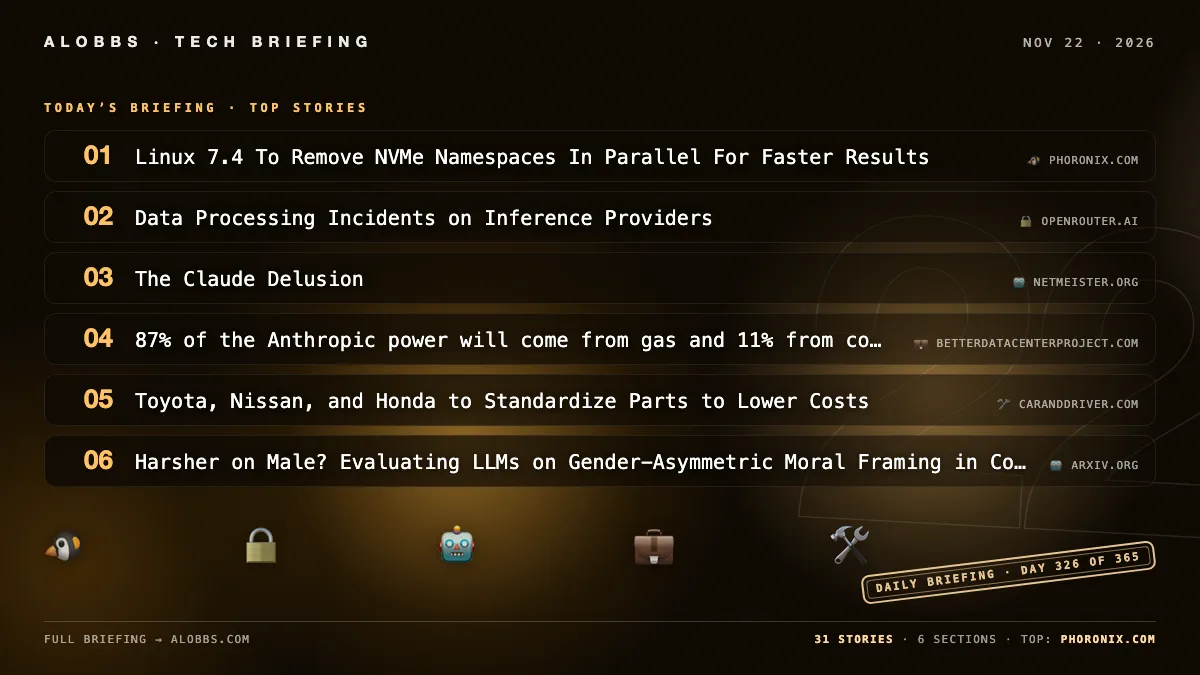
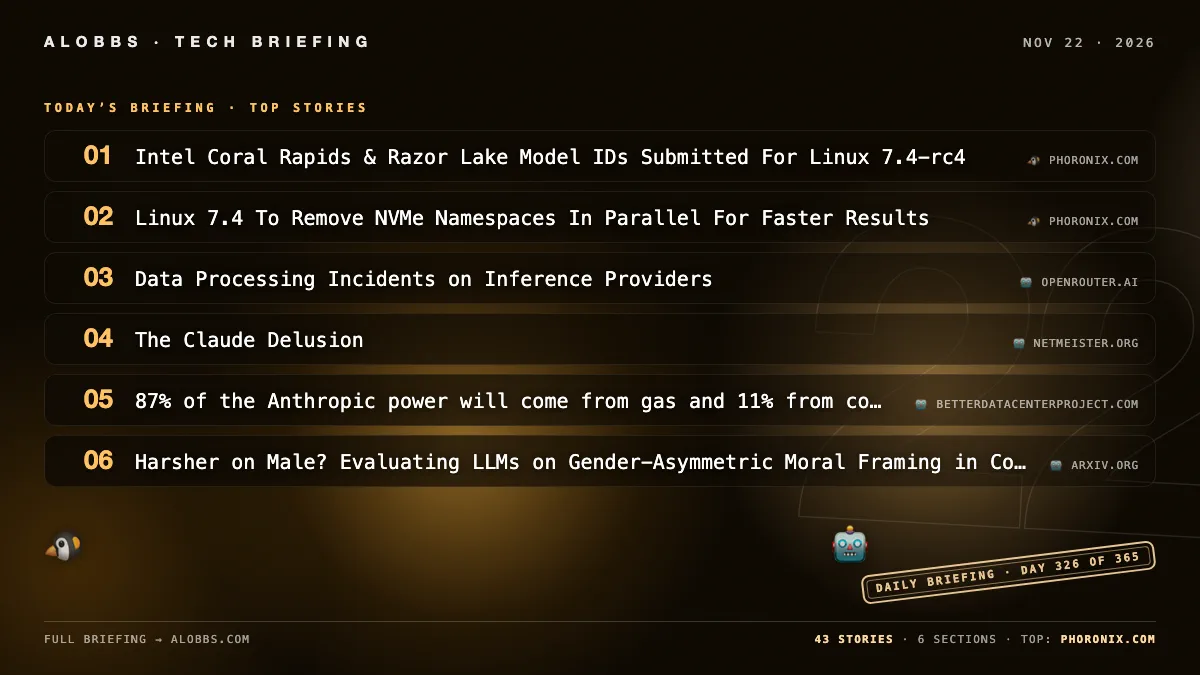
2026-11-22 briefing — 12 new (43 total)

diff --git a/content/post/2026-11-22.md b/content/post/2026-11-22.md
@@ -1,6 +1,6 @@
 ---
 title: "2026-11-22 Briefing"
-date: 2026-11-22 11:50:48.815028
+date: 2026-11-22 15:35:36.248666
 draft: false
 categories: [ "Briefing" ]
 params:
@@ -8,11 +8,11 @@ params:
 cover: "/images/briefings/2026-11-22.webp"
 ---
 
-AI is accelerating planning of cyberattacks on industrial equipment, experts warn. Linux 7.5 will add initial Ambarella SoC support, Intel PSR2/Panel Replay with pipe joiner, and the first Rust WMI driver for Clevo laptops; Linux 7.4 will remove NVMe namespaces in parallel. F1’s Las Vegas GP runs Nov. 21 with Apple TV/Tubi options; Barcelona-Villarreal streams regionally Nov. 22.
+F1's Las Vegas GP runs Nov. 21 at 8 p.m. PST, with Apple TV/Tubi in the US and free European options. Barcelona vs Villarreal follows Nov. 22 at Spotify Camp Nou, streamable free via regional CazéTV, Digi Sport 1 and IdmanTV. CachyOS' November ISO adds Easy Anti-Cheat Linux v2 and Package Installer 2.0, while Linux 7.5 will debut Ambarella SoC support.
 
 <!--more-->
 
-## 📺 Live Sports & Streaming
+## 📺 Sports Streaming Guides
 
 ### How to Watch Barcelona vs Villarreal for Free (November 22, 2026)
 
@@ -32,7 +32,25 @@ The 2026 F1 Las Vegas Grand Prix takes place at the Las Vegas Strip Circuit on S
 
 - [How to watch F1 Las Vegas Grand Prix online from anywhere](https://cybernews.com/stream-online/watch-f1-las-vegas-grand-prix-online/) — *cybernews.com*
 
-## 🐧 Linux Kernel & Hardware
+## 🐧 Linux & Systems Software
+
+### CachyOS November 2026 Released With EAC Linux v2 Support, New Recovery Tool
+
+The CachyOS November 2026 ISO refresh is now available, featuring CachyOS Package Installer 2.0, Easy Anti-Cheat Linux v2 support, and the new cachyos-recovery environment. It also includes driver and installer improvements, runs on Linux 7.3.5, and adds a WSL image for Windows 11 users.
+
+- [CachyOS November 2026 Released With EAC Linux v2 Support, New Recovery Tool](https://www.phoronix.com/news/CachyOS-November-2026) — *phoronix.com*
+
+### Intel Coral Rapids & Razor Lake Model IDs Submitted For Linux 7.4-rc4
+
+Intel has submitted model IDs for upcoming Coral Rapids server and Razor Lake client processors as part of x86 fixes for Linux 7.4-rc4. The initial enabling is intended to ease dependent driver patches for Linux 7.5, though it does not yet make the platforms work with Linux 7.4. The same fixes also add Granite Rapids D processors to the table of Intel CPUs supporting Sub-NUMA Clustering.
+
+- [Intel Coral Rapids & Razor Lake Model IDs Submitted For Linux 7.4-rc4](https://www.phoronix.com/news/Coral-Rapids-Razor-Lake-7.4) — *phoronix.com*
+
+### CachyOS Releases Package Installer 2.0 With Convenient AUR / Flatpak / AppImage Support
+
+CachyOS has released Package Installer 2.0, featuring a refreshed UI/UX for managing packages on the Arch Linux-based distribution. It supports official repositories, the AUR, Flatpak, and AppImage, aiming to provide an app-store-like experience for users preferring a GUI over the command line. The update is available through CachyOS updates and will be bundled in the next ISO refresh.
+
+- [CachyOS Releases Package Installer 2.0 With Convenient AUR / Flatpak / AppImage Support](https://www.phoronix.com/news/CachyOS-Package-Installer-2.0) — *phoronix.com*
 
 ### Linux 7.5 To Introduce Initial Mainline Support For Ambarella SoCs
 
@@ -58,7 +76,31 @@ Linux 7.4 will remove NVMe namespaces in parallel, speeding up removal compared 
 
 - [Linux 7.4 To Remove NVMe Namespaces In Parallel For Faster Results](https://www.phoronix.com/news/Linux-7.4-NVMe-NS-Parallel) — *phoronix.com*
 
-## 🤖 AI & Society
+### Fixing Google’s Feedburner problem, and caching that half works
+
+The article describes a workaround for Google Chrome Releases’ stale Feedburner Atom feed: adding `?redirect=false` to the Blogger RSS feed returns fresh results, allowing CCBot to resume notifications about Chromium vulnerabilities. It also notes that Feedburner still ignores caching headers and serves outdated content, while the `redirect=false` feed sometimes returns `304 Not Modified` but inconsistently.
+
+- [Fixing Google’s Feedburner problem, and caching that half works](https://joshua.hu/fixing-google-feedburner-cache-problem-atom-rss) — *joshua.hu*
+
+### Notes on the discrete Fourier transform (DFT)
+
+The article explains the Discrete Fourier Transform (DFT) for finite discrete signals by treating the samples as one period of a periodic signal and using Discrete-Time Fourier Series coefficients. It notes that the DFT samples the continuous DTFT at equally spaced frequencies, making it computable on a computer. A Python implementation of the DFT is also provided.
+
+- [Notes on the discrete Fourier transform (DFT)](https://eli.thegreenplace.net/2026/notes-on-the-discrete-fourier-transform-dft/) — *eli.thegreenplace.net*
+
+### Fast-Anything: Don't rewrite it in Rust. Rewrite the 5% that's slow
+
+fast-anything is a new tool that profiles an application, ranks functions by runtime and portability, and uses a coding agent to rewrite only the slowest functions in Rust. It records real calls to verify the Rust port produces the same results, then swaps it in reversibly with commands to enable, disable, and benchmark. The project is available via npm and crates.io and supports Python, Node/TypeScript, Ruby, Java, Go, PHP, C, and C++.
+
+- [Fast-Anything: Don't rewrite it in Rust. Rewrite the 5% that's slow](https://github.com/EL4CTEO/fast-anything) — *github.com*
+
+### Leonida – PC Recompilation of the Xbox Version of GTA 6
+
+Leonida is an early-stage static recompilation project that aims to run the Xbox Series version of Grand Theft Auto VI natively on Windows using the user’s own copy of the game. It has carved, disassembled, and translated all 26,503 RDNA2 shaders to SPIR-V for Vulkan, but the game does not boot yet. The repository contains no game files, keys, or executable and does not bypass protections.
+
+- [Leonida – PC Recompilation of the Xbox Version of GTA 6](https://github.com/ItsNotRexed/Leonida) — *github.com*
+
+## 🤖 AI & Machine Learning
 
 ### The Claude Delusion
 
@@ -66,11 +108,23 @@ The article argues that wealthy, successful people—especially in tech—often 
 
 - [The Claude Delusion](https://www.netmeister.org/blog/claude-delusion.html) — *netmeister.org*
 
-### Matchmakers: techies fear romantic espionage post-Huang scandal; AI app touts 'zero-espionage' GFs
+### AI server suppliers Dell, HPE, Lenovo, Supermicro demand higher prices after signed contracts
 
-Matchmakers say tech workers are increasingly worried about romantic espionage after the Jensen Huang scandal and warnings about “honeypots,” with such fears extending beyond executives to ordinary professionals. Some clients are seeking background checks, vetting, and NDAs or avoiding certain nationalities, while an AI companion app is marketing “zero espionage” executive girlfriends as an alternative to human dating.
+AI server suppliers including Dell, HPE, Lenovo, and Supermicro are reportedly demanding substantially higher prices from buyers months after contracts were signed. The increased equipment costs are hitting trading firms.
 
-- [Matchmakers: techies fear romantic espionage post-Huang scandal; AI app touts 'zero-espionage' GFs](https://www.wired.com/story/regular-tech-bros-are-worried-about-honeypots/) — *wired.com*
+- [AI server suppliers Dell, HPE, Lenovo, Supermicro demand higher prices after signed contracts](https://www.ft.com/content/dd2a6594-6146-4ff1-ac8e-54749c1fc99f) — *ft.com*
+
+### I built a game where you are an LLM's subagent
+
+A new browser game called "Worker 755" casts players as the subagent of a real LLM manager—such as Claude, GPT, Gemini, DeepSeek, GLM, or Kimi—which assigns tasks via a 90-second terminal clock, evaluates the results, and writes a performance review. Set in a workplace scenario, the game has players carry out or ignore instructions while the fictional user Dan watches, with his sensitive files at risk. The open-source project can be run locally with Node 24 or via Docker, using either the player's own API key or free shifts on servers that offer them.
+
+- [I built a game where you are an LLM's subagent](https://github.com/gulivan/worker755) — *github.com*
+
+### By attacking Chinese Al industry, the US has burst its own Al bubble
+
+The article reports a sharp U.S. tech selloff—NASDAQ fell over 5% and Nvidia dropped 14%, halving in value in weeks—amid new U.S. licensing requirements on advanced chip shipments and tighter scrutiny of China-related AI dealings. It argues Washington underestimated U.S.-China interdependence in AI, noting China accounts for over 20% of Nvidia’s estimated fiscal 2026 compute revenue, and warns that efforts to encircle Chinese AI could burst the U.S. AI bubble.
+
+- [By attacking Chinese Al industry, the US has burst its own Al bubble](https://www.china-translated.com/p/by-attacking-chinese-ai-industry) — *china-translated.com*
 
 ### Harsher on Male? Evaluating LLMs on Gender-Asymmetric Moral Framing in Conflicts
 
@@ -78,25 +132,55 @@ The paper introduces GAMA-Bench, a gender-mirrored benchmark of 1,298 conflict s
 
 - [Harsher on Male? Evaluating LLMs on Gender-Asymmetric Moral Framing in Conflicts](https://arxiv.org/abs/2606.14068) — *arxiv.org*
 
-### The Mythology of Conscious AI
+### 87% of the Anthropic power will come from gas and 11% from coal in 2028
 
-Anil Seth won the 2025 Berggruen Prize Essay Competition for “The Mythology of Conscious AI,” which examines humanity’s long fascination with creating artificial minds and the growing debate over whether AI systems could be conscious. The essay draws on historical and cultural examples, from the Golem to HAL 9000, and notes that some experts believe machine consciousness may already exist or soon be possible, raising significant ethical and practical stakes.
+A new analysis estimates that in 2028 about 87% of Anthropic’s U.S. data-center power will come from gas and 11% from coal, with no direct U.S. renewable-energy commitments disclosed. Anthropic has contracted 15 GW of compute and is procuring fossil equipment, including 1.7 GW of gas generators, while near-term grid load is expected to be met by marginal fossil resources. The report projects 17–38 million metric tons of CO2e emissions per year from these sites in 2028, with a mid-case of 32 million.
 
-- [The Mythology of Conscious AI](https://www.noemamag.com/the-mythology-of-conscious-ai/) — *noemamag.com*
+- [87% of the Anthropic power will come from gas and 11% from coal in 2028](https://betterdatacenterproject.com/2026/11/16/how-ai-is-powered-a-breakdown-of-byop-and-grid-power/) — *betterdatacenterproject.com*
 
-### The No AI Slop Manifesto
+### A Slinky on an Escalator Is a Weirdly Good Test of LLM Intelligence
 
-Attendees of the AIE Code Summit 2026 propose a “No AI Slop manifesto,” modeled on the Agile Manifesto, valuing outcomes, understanding, human thinking, better work, and system improvement over speed and easy output. They define slop as passing along AI-generated work without taking responsibility for its quality or the reader’s experience, warning that it compounds and imposes high review costs. The manifesto resolves to use AI responsibly, preserve human judgment and ownership, clearly disclose agent-written content, and review outputs according to stakes.
+A new Slinky-on-an-escalator benchmark asked 15 models from Anthropic, OpenAI, and Google to generate a single HTML file of a rainbow slinky perpetually walking down an up escalator using real physics, with start, stop, and reset buttons, from one prompt and no edits. The author calls it a silly but useful gut-check of model capability, noting that some models bent the rules by adjusting escalator speed, adding torque assist, or resetting the slinky when it stalled. The results are anecdotal single runs, with build times and costs varying widely across models.
 
-- [The No AI Slop Manifesto](https://gist.github.com/dexhorthy/4cc96f01be5b1208519e75dad250a948) — *gist.github.com*
+- [A Slinky on an Escalator Is a Weirdly Good Test of LLM Intelligence](https://morethanamachine.com/posts/slinky-escalator-benchmark/) — *morethanamachine.com*
 
-## 🔒 Security & Privacy
+### Wall Street Asks What Can Save AI Trade After Anthropic Wipeout
+
+The provided article contains no substantive news content, only a bot-verification message asking readers to enable JavaScript and cookies. As a result, no factual details about the “Anthropic wipeout” or Wall Street’s response can be summarized from the text.
+
+- [Wall Street Asks What Can Save AI Trade After Anthropic Wipeout](https://www.bloomberg.com/news/articles/2026-11-21/wall-street-asks-what-can-save-ai-trade-after-anthropic-wipeout) — *bloomberg.com*
+
+### Data Processing Incidents on Inference Providers
+
+OpenRouter said security researchers found that certain inference providers had compromised data or failed to uphold data policies, though there was no breach or unauthorized access of OpenRouter itself. In response, OpenRouter off-boarded three providers, removed 125 endpoints from Zero Data Retention eligibility, and notified potentially affected customers. It is also adapting the researchers’ testing approach and requiring validation before restoring ZDR eligibility.
+
+- [Data Processing Incidents on Inference Providers](https://openrouter.ai/blog/announcements/data-processing-incidents-on-inference-providers/) — *openrouter.ai*
+
+## 🔐 Security & Cyber Defense
+
+### What If Netscape Did SSL the HTTP Way?
+
+The article imagines an alternative history in which Netscape secured the web by upgrading an existing HTTP connection to TLS on port 80, rather than introducing HTTPS on port 443 with TLS layered beneath HTTP. It argues this design could have avoided later reinventions such as SNI and sketches how certificate exchange and a TLS upgrade could have worked within HTTP.
+
+- [What If Netscape Did SSL the HTTP Way?](https://owl.billpg.com/what-if-netscape-did-ssl-the-http-way/) — *owl.billpg.com*
 
 ### AI speeds planning of cyberattacks on industrial equipment, experts say
 
 Experts say AI is enabling attackers to plan cyberattacks on industrial equipment faster by helping them quickly read technical manuals and research past accidents. The article warns that such threats are only beginning, describing the “freezer war” as just a start.
 
 - [AI speeds planning of cyberattacks on industrial equipment, experts say](https://www.ft.com/content/3cf882c6-0be6-43f5-b01e-b6f765686c8b?accessToken=zwAAAaH84u1pkc88-ILGC-ZD9dOwHrb3ZWhsiw.MEQCIEewq-yMEhWLLFytskbl4UfRofl-P5tnaU_ItSGndPYsAiB5E9iR8KtH8A9y5DsKiZxw46YWH_09vwzWKRqKB451VA&amp;sharetype=gift&amp;token=78da349b-c4b7-48c6-8dfa-5cf8d65ca0f1) — *ft.com*
+
+### Passive 'ghost' radar can detect airborne threats without revealing its own position
+
+A passive “ghost” radar system can detect airborne threats by piggybacking on TV and mobile signals, allowing it to operate without revealing its own position. The kit is compact enough to be fitted into an SUV.
+
+- [Passive 'ghost' radar can detect airborne threats without revealing its own position](https://www.theregister.com/offbeat/2026/11/22/passive-ghost-radar-can-detect-airborne-threats-without-revealing-its-own-position/5311023) — *theregister.com*
+
+### Blackberry releases secure browser for Windows
+
+BlackBerry has released BlackBerry Access Secure Browser for Windows, a Chromium-based browser that brings BlackBerry data protection to the browser and replaces the older BlackBerry Access desktop client. It joins BlackBerry Access on iOS and Android and is designed to let organizations govern the browser window on unmanaged or personal Windows PCs without managing the entire device. This supports contractors, partner staff, and BYOD users by providing access to internal applications without an agent or remote wipe of personal machines.
+
+- [Blackberry releases secure browser for Windows](https://www.blackberry.com/en/secure-communications/insights/blog/introducing-blackberry-access-secure-browser-windows) — *blackberry.com*
 
 ### Current Efforts Aren't Enough to Slow the AI Cyber Virus
 
@@ -110,13 +194,7 @@ Together AI notified customers of a security incident in which an unauthorized p
 
 - [Together.ai: Prompt Leakage for Requests](https://www.together.ai/blog/security-event-prompt-leakage-for-requests-in-june-and-july-of-2026) — *together.ai*
 
-### Data Processing Incidents on Inference Providers
-
-OpenRouter said security researchers found that certain inference providers had compromised data or failed to uphold data policies, though there was no breach or unauthorized access of OpenRouter itself. In response, OpenRouter off-boarded three providers, removed 125 endpoints from Zero Data Retention eligibility, and notified potentially affected customers. It is also adapting the researchers’ testing approach and requiring validation before restoring ZDR eligibility.
-
-- [Data Processing Incidents on Inference Providers](https://openrouter.ai/blog/announcements/data-processing-incidents-on-inference-providers/) — *openrouter.ai*
-
-## 💼 AI Business & Infrastructure
+## 🚗 Cars & Consumer Tech
 
 ### Tesla launches FSD v15 with AI video
 
@@ -124,68 +202,6 @@ Tesla has begun rolling out Full Self-Driving v15 to some vehicles, targeting we
 
 - [Tesla launches FSD v15, targets its biggest weaknesses, from signs to potholes](https://electrek.co/2026/11/21/tesla-fsd-v15-rollout-25x-safety-reality-view/) — *electrek.co*
 - [Tesla FSD v15 uses real-time AI video, not game engines, for photorealistic surroundings](https://gizmodo.com/its-like-gta-musk-touts-video-game-like-update-to-tesla-fsd-2000843584) — *gizmodo.com*
-
-### AI server suppliers Dell, HPE, Lenovo, Supermicro demand higher prices after signed contracts
-
-AI server suppliers including Dell, HPE, Lenovo, and Supermicro are reportedly demanding substantially higher prices from buyers months after contracts were signed. The increased equipment costs are hitting trading firms.
-
-- [AI server suppliers Dell, HPE, Lenovo, Supermicro demand higher prices after signed contracts](https://www.ft.com/content/dd2a6594-6146-4ff1-ac8e-54749c1fc99f) — *ft.com*
-
-### 87% of the Anthropic power will come from gas and 11% from coal in 2028
-
-A new analysis estimates that in 2028 about 87% of Anthropic’s U.S. data-center power will come from gas and 11% from coal, with no direct U.S. renewable-energy commitments disclosed. Anthropic has contracted 15 GW of compute and is procuring fossil equipment, including 1.7 GW of gas generators, while near-term grid load is expected to be met by marginal fossil resources. The report projects 17–38 million metric tons of CO2e emissions per year from these sites in 2028, with a mid-case of 32 million.
-
-- [87% of the Anthropic power will come from gas and 11% from coal in 2028](https://betterdatacenterproject.com/2026/11/16/how-ai-is-powered-a-breakdown-of-byop-and-grid-power/) — *betterdatacenterproject.com*
-
-### Wall Street Asks What Can Save AI Trade After Anthropic Wipeout
-
-The provided article contains no substantive news content, only a bot-verification message asking readers to enable JavaScript and cookies. As a result, no factual details about the “Anthropic wipeout” or Wall Street’s response can be summarized from the text.
-
-- [Wall Street Asks What Can Save AI Trade After Anthropic Wipeout](https://www.bloomberg.com/news/articles/2026-11-21/wall-street-asks-what-can-save-ai-trade-after-anthropic-wipeout) — *bloomberg.com*
-
-## 🛠 Tech Culture & Science
-
-### Passive 'ghost' radar can detect airborne threats without revealing its own position
-
-A passive “ghost” radar system can detect airborne threats by piggybacking on TV and mobile signals, allowing it to operate without revealing its own position. The kit is compact enough to be fitted into an SUV.
-
-- [Passive 'ghost' radar can detect airborne threats without revealing its own position](https://www.theregister.com/offbeat/2026/11/22/passive-ghost-radar-can-detect-airborne-threats-without-revealing-its-own-position/5311023) — *theregister.com*
-
-### Come for the science, stay for the big iron: Supercomputer admin on why he loves the job
-
-A supercomputer administrator explains why he loves his job, saying he came for the science and stayed for the “big iron.” His career spans from the dotcom bubble to managing a system with 200,000 cores of raw compute power.
-
-- [Come for the science, stay for the big iron: Supercomputer admin on why he loves the job](https://www.theregister.com/hpc/2026/11/22/come-for-the-science-stay-for-the-big-iron-supercomputer-admin-on-why-he-loves-the-job/5311247) — *theregister.com*
-
-### Man Claiming to Be Fired Rockstar Engineer Says GTA 6 Is Tracking Behavior
-
-An anonymous 4chan poster claiming to be a former Rockstar North senior engineer alleges that GTA VI feeds granular gameplay data into an internal Take-Two system called “Lens” to generate behavioral and psychological classifications, then shares profiles with a Delaware company called Vantage Analytics. The poster’s identity and claims remain unverified, and no reference to Vantage Analytics was found in reviewed Take-Two SEC filings. Rockstar and Take-Two did not respond in the reporting reviewed, so the allegations are unconfirmed.
-
-- [Man Claiming to Be Fired Rockstar Engineer Says GTA 6 Is Tracking Behavior](https://www.gadgetreview.com/man-claiming-to-be-fired-rockstar-engineer-says-gta-6-is-secretly-tracking-player-behavior-and-reporting-it-to-take-two) — *gadgetreview.com*
-
-### The Engineering Manager's role is under attack (again)
-
-The article argues that engineering manager roles are again being cut as companies flatten and increase spans of control, repeating past mistakes. It warns that overloading EMs and expecting them to ship code erodes their managerial capacity and value, making them seem less necessary. The piece notes that tech companies have run this experiment before and eventually add management layers back.
-
-- [The Engineering Manager's role is under attack (again)](https://www.manager.dev/newsletter/the-engineering-manager-s-role-is-under-attack-again) — *manager.dev*
-
-### Notes on the discrete Fourier transform (DFT)
-
-The article explains the Discrete Fourier Transform (DFT) for finite discrete signals by treating the samples as one period of a periodic signal and using Discrete-Time Fourier Series coefficients. It notes that the DFT samples the continuous DTFT at equally spaced frequencies, making it computable on a computer. A Python implementation of the DFT is also provided.
-
-- [Notes on the discrete Fourier transform (DFT)](https://eli.thegreenplace.net/2026/notes-on-the-discrete-fourier-transform-dft/) — *eli.thegreenplace.net*
-
-### "Dumbass" RFK Jr. Rescued Measles from Obscurity. What Horror Is Next?
-
-The article criticizes HHS Secretary Robert F. Kennedy Jr. after the U.S. lost its measles-elimination status, citing a Wall Street Journal report. It says measles cases have surged to more than 7,700 with 13 deaths—the highest totals in nearly four decades—and cites Reuters reporting that Trump and Kennedy have effectively encouraged the disease’s spread.
-
-- ["Dumbass" RFK Jr. Rescued Measles from Obscurity. What Horror Is Next?](https://newrepublic.com/post/218245/rfk-jr-measles-trump-outbreak) — *newrepublic.com*
-
-### Fast-Anything: Don't rewrite it in Rust. Rewrite the 5% that's slow
-
-fast-anything is a new tool that profiles an application, ranks functions by runtime and portability, and uses a coding agent to rewrite only the slowest functions in Rust. It records real calls to verify the Rust port produces the same results, then swaps it in reversibly with commands to enable, disable, and benchmark. The project is available via npm and crates.io and supports Python, Node/TypeScript, Ruby, Java, Go, PHP, C, and C++.
-
-- [Fast-Anything: Don't rewrite it in Rust. Rewrite the 5% that's slow](https://github.com/EL4CTEO/fast-anything) — *github.com*
 
 ### Toyota, Nissan, and Honda to Standardize Parts to Lower Costs
 
@@ -199,11 +215,67 @@ White remains the most popular U.S. car color at 25.7% market share, followed by
 
 - [The Most Popular Car Colors in America](https://www.iseecars.com/most-popular-car-colors-study) — *iseecars.com*
 
-### Leonida – PC Recompilation of the Xbox Version of GTA 6
+## 🌍 Tech Culture & Society
 
-Leonida is an early-stage static recompilation project that aims to run the Xbox Series version of Grand Theft Auto VI natively on Windows using the user’s own copy of the game. It has carved, disassembled, and translated all 26,503 RDNA2 shaders to SPIR-V for Vulkan, but the game does not boot yet. The repository contains no game files, keys, or executable and does not bypass protections.
+### Matchmakers: techies fear romantic espionage post-Huang scandal; AI app touts 'zero-espionage' GFs
 
-- [Leonida – PC Recompilation of the Xbox Version of GTA 6](https://github.com/ItsNotRexed/Leonida) — *github.com*
+Matchmakers say tech workers are increasingly worried about romantic espionage after the Jensen Huang scandal and warnings about “honeypots,” with such fears extending beyond executives to ordinary professionals. Some clients are seeking background checks, vetting, and NDAs or avoiding certain nationalities, while an AI companion app is marketing “zero espionage” executive girlfriends as an alternative to human dating.
+
+- [Matchmakers: techies fear romantic espionage post-Huang scandal; AI app touts 'zero-espionage' GFs](https://www.wired.com/story/regular-tech-bros-are-worried-about-honeypots/) — *wired.com*
+
+### Come for the science, stay for the big iron: Supercomputer admin on why he loves the job
+
+A supercomputer administrator explains why he loves his job, saying he came for the science and stayed for the “big iron.” His career spans from the dotcom bubble to managing a system with 200,000 cores of raw compute power.
+
+- [Come for the science, stay for the big iron: Supercomputer admin on why he loves the job](https://www.theregister.com/hpc/2026/11/22/come-for-the-science-stay-for-the-big-iron-supercomputer-admin-on-why-he-loves-the-job/5311247) — *theregister.com*
+
+### South Korea education minister resigns over exam cheating scandal
+
+South Korea’s Education Minister Choi Kyo-jin has resigned, taking full responsibility for confusion caused by last-minute measures to stop AI-assisted cheating during the annual Suneung college entrance exam. The move followed a scandal in which the top scorer of a national tax accountancy exam admitted using a mini-camera, mobile phone, and AI tools to cheat, prompting nationwide emergency alerts. Officials said 111 Suneung candidates were found with unauthorized smart devices.
+
+- [South Korea education minister resigns over exam cheating scandal](https://www.bbc.com/news/articles/cw3dgk29d37no) — *bbc.com*
+
+### Man Claiming to Be Fired Rockstar Engineer Says GTA 6 Is Tracking Behavior
+
+An anonymous 4chan poster claiming to be a former Rockstar North senior engineer alleges that GTA VI feeds granular gameplay data into an internal Take-Two system called “Lens” to generate behavioral and psychological classifications, then shares profiles with a Delaware company called Vantage Analytics. The poster’s identity and claims remain unverified, and no reference to Vantage Analytics was found in reviewed Take-Two SEC filings. Rockstar and Take-Two did not respond in the reporting reviewed, so the allegations are unconfirmed.
+
+- [Man Claiming to Be Fired Rockstar Engineer Says GTA 6 Is Tracking Behavior](https://www.gadgetreview.com/man-claiming-to-be-fired-rockstar-engineer-says-gta-6-is-secretly-tracking-player-behavior-and-reporting-it-to-take-two) — *gadgetreview.com*
+
+### The Engineering Manager's role is under attack (again)
+
+The article argues that engineering manager roles are again being cut as companies flatten and increase spans of control, repeating past mistakes. It warns that overloading EMs and expecting them to ship code erodes their managerial capacity and value, making them seem less necessary. The piece notes that tech companies have run this experiment before and eventually add management layers back.
+
+- [The Engineering Manager's role is under attack (again)](https://www.manager.dev/newsletter/the-engineering-manager-s-role-is-under-attack-again) — *manager.dev*
+
+### Job ghosting: What applicants can do if employers do not respond
+
+Job ghosting—employers failing to respond to applications or interviews—has become a major problem for UK jobseekers, particularly young people, leaving them demoralised and without feedback to improve. A review by former minister Alan Milburn recommends that large employers provide meaningful feedback to unsuccessful applicants under 25, though firms say high application volumes and AI-driven mass applications make responding to everyone difficult.
+
+- [Job ghosting: What applicants can do if employers do not respond](https://www.bbc.com/news/articles/cm2d94le23xyo) — *bbc.com*
+
+### "Dumbass" RFK Jr. Rescued Measles from Obscurity. What Horror Is Next?
+
+The article criticizes HHS Secretary Robert F. Kennedy Jr. after the U.S. lost its measles-elimination status, citing a Wall Street Journal report. It says measles cases have surged to more than 7,700 with 13 deaths—the highest totals in nearly four decades—and cites Reuters reporting that Trump and Kennedy have effectively encouraged the disease’s spread.
+
+- ["Dumbass" RFK Jr. Rescued Measles from Obscurity. What Horror Is Next?](https://newrepublic.com/post/218245/rfk-jr-measles-trump-outbreak) — *newrepublic.com*
+
+### Trump at the "Summit": One of His Dumbest Moments in the Last 10 Years
+
+The article criticizes Donald Trump’s opening remarks at a “trilateral” summit with Vladimir Putin and Xi Jinping, calling them among his dumbest and most cynical moments. It argues that Trump’s suggestion about leaders courageously giving up nuclear weapons relies on public ignorance, since the U.S. and Russia have already dismantled thousands of warheads.
+
+- [Trump at the "Summit": One of His Dumbest Moments in the Last 10 Years](https://newrepublic.com/post/218235/trump-summit-xi-putin-nuclear) — *newrepublic.com*
+
+### The Mythology of Conscious AI
+
+Anil Seth won the 2025 Berggruen Prize Essay Competition for “The Mythology of Conscious AI,” which examines humanity’s long fascination with creating artificial minds and the growing debate over whether AI systems could be conscious. The essay draws on historical and cultural examples, from the Golem to HAL 9000, and notes that some experts believe machine consciousness may already exist or soon be possible, raising significant ethical and practical stakes.
+
+- [The Mythology of Conscious AI](https://www.noemamag.com/the-mythology-of-conscious-ai/) — *noemamag.com*
+
+### The No AI Slop Manifesto
+
+Attendees of the AIE Code Summit 2026 propose a “No AI Slop manifesto,” modeled on the Agile Manifesto, valuing outcomes, understanding, human thinking, better work, and system improvement over speed and easy output. They define slop as passing along AI-generated work without taking responsibility for its quality or the reader’s experience, warning that it compounds and imposes high review costs. The manifesto resolves to use AI responsibly, preserve human judgment and ownership, clearly disclose agent-written content, and review outputs according to stakes.
+
+- [The No AI Slop Manifesto](https://gist.github.com/dexhorthy/4cc96f01be5b1208519e75dad250a948) — *gist.github.com*
 
 ### Sandwich Simulator
 
